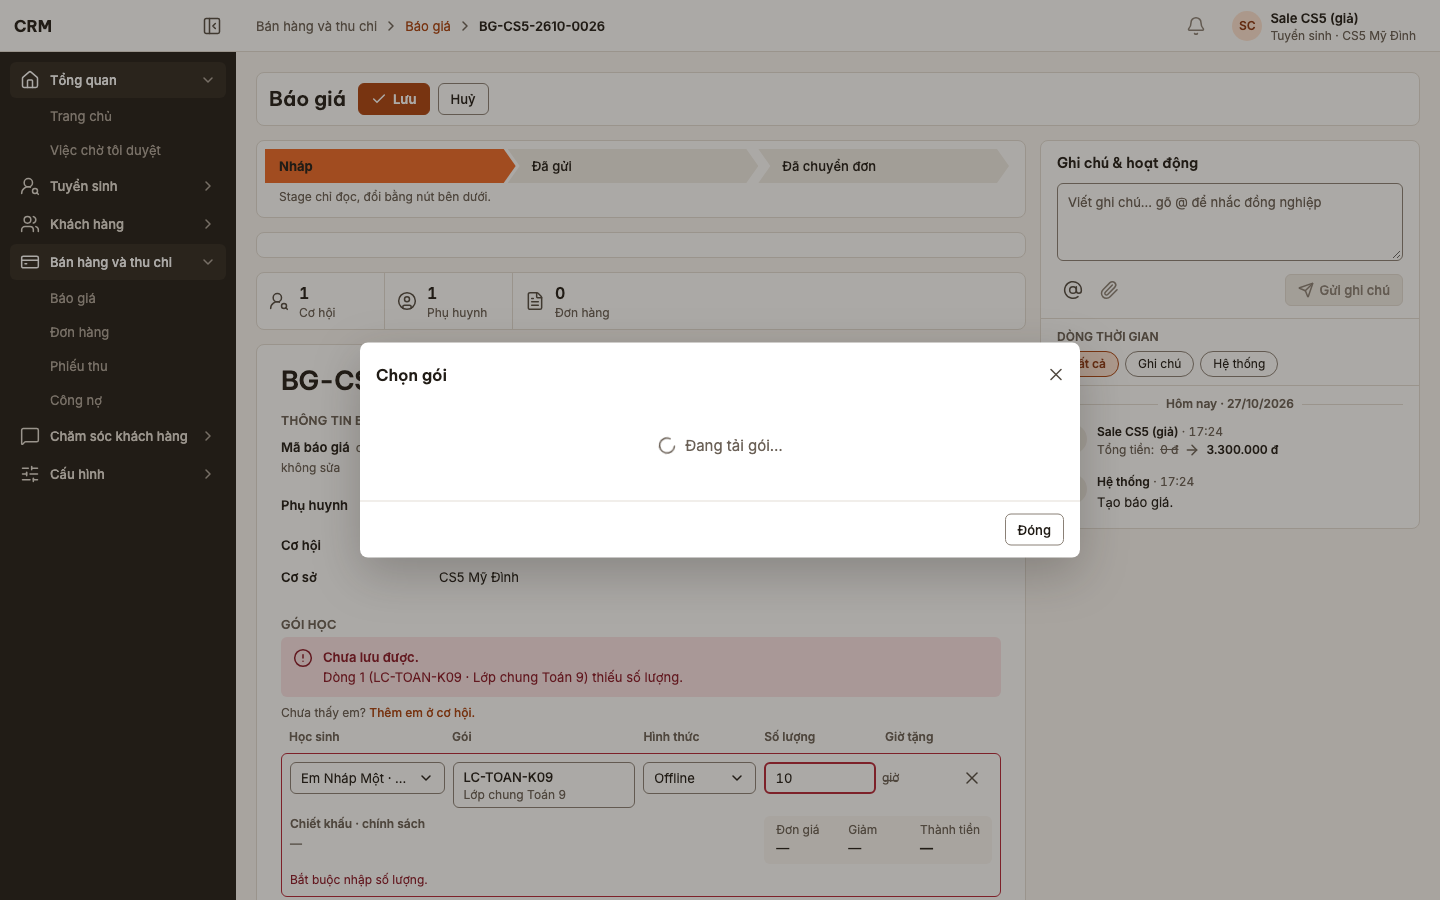
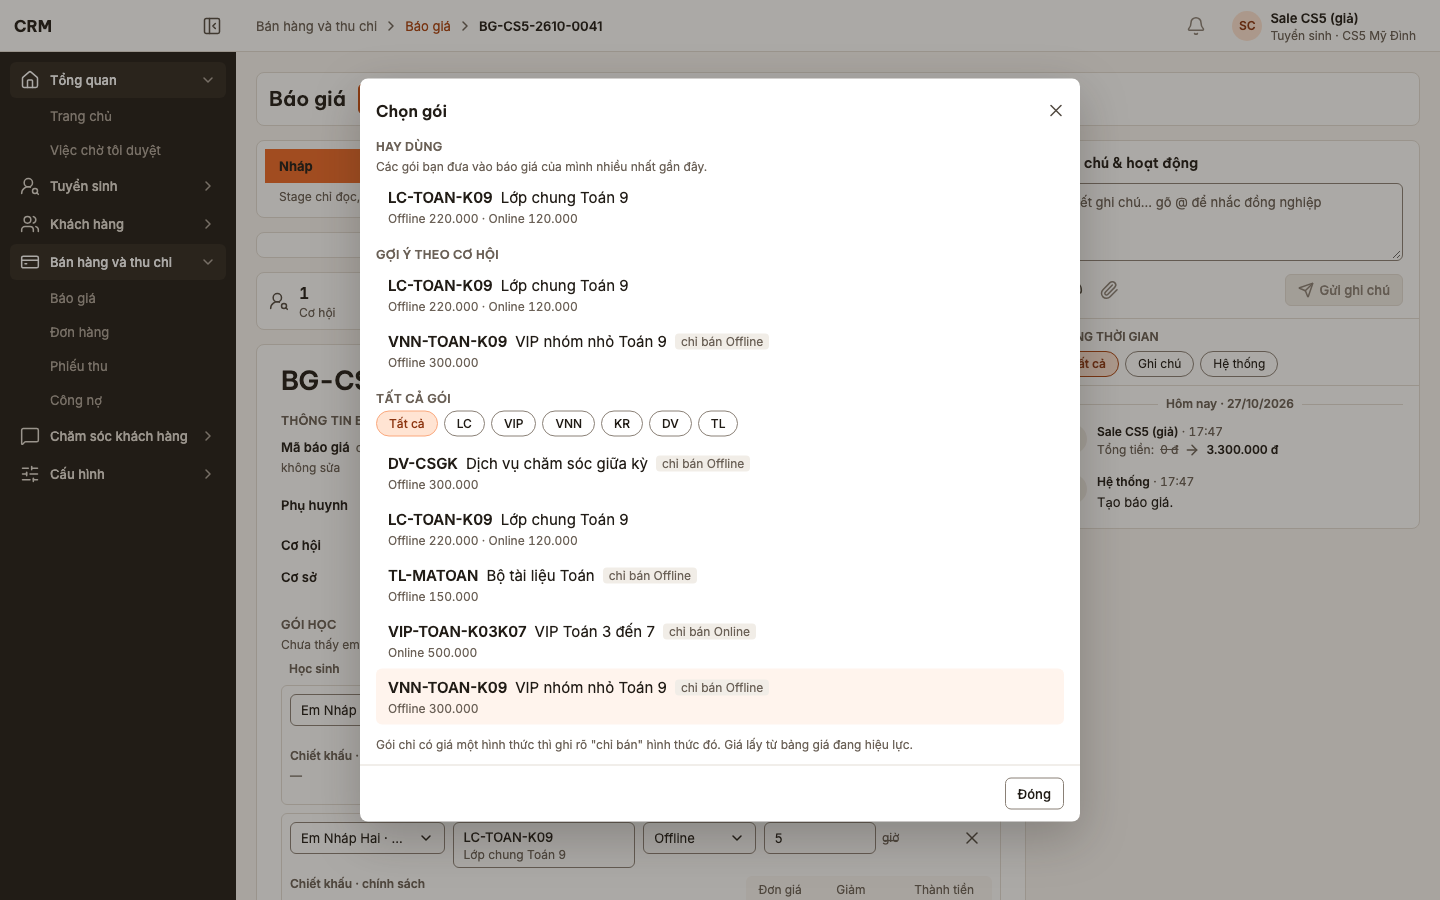
P5a-UI-6 (C1): lỗi số lượng tự mất khi nhập hợp lệ (bài kiểm), chụp lại hộp Chọn gói khi đã tải (Đ254)

diff --git a/src/pages/bao-gia/quoteEdit.test.ts b/src/pages/bao-gia/quoteEdit.test.ts
@@ -4,6 +4,7 @@ import {
   buildSaveLines,
   modesOfPrices,
   parseQuantity,
+  pruneIssues,
   rowsFromRecord,
   rowsSignature,
   validateRows,
@@ -138,5 +139,22 @@ describe('quoteEdit', () => {
   it('hình thức của gói: OFF trước ONL, chỉ hình thức có giá', () => {
     expect(modesOfPrices({ ONL: 120000, OFF: 220000 })).toEqual(['OFF', 'ONL']);
     expect(modesOfPrices({ ONL: 300000 })).toEqual(['ONL']);
+  });
+
+  it('lỗi thiếu số lượng tự mất khi nhập số hợp lệ, dòng khác giữ lỗi', () => {
+    const a = { ...blankRow(), packageId: 'p1', packageCode: 'A', packageName: 'Gói A' };
+    const b = { ...blankRow(), packageId: 'p2', packageCode: 'B', packageName: 'Gói B' };
+    const issues = validateRows([a, b]);
+    expect(issues).toHaveLength(2);
+    const fixed = pruneIssues(issues, [{ ...a, quantity: '5' }, b]);
+    expect(fixed.map((i) => i.rowKey)).toEqual([b.key]);
+    expect(
+      pruneIssues(fixed, [
+        { ...a, quantity: '5' },
+        { ...b, quantity: '1,5' },
+      ]),
+    ).toEqual([]);
+    // Xoá lại ô thì không tự báo lỗi mới trước khi bấm Lưu.
+    expect(pruneIssues([], [a, b])).toEqual([]);
   });
 });

diff --git a/e2e/bao-gia.spec.ts b/e2e/bao-gia.spec.ts
@@ -168,8 +168,10 @@ test('BH-02 sửa Nháp: lưới K06c, thiếu số lượng báo lỗi theo khu
   await expect(page.getByText('Chưa lưu được.')).toBeVisible();
   await expect(page.getByText(/^Dòng 1 \(LC-TOAN-K09 · .*\) thiếu số lượng\.$/)).toBeVisible();
   await expect(page.getByText('Bắt buộc nhập số lượng.')).toBeVisible();
-  // Nhập lại, đổi 10 giờ thành 20 giờ, Lưu.
+  // Nhập số hợp lệ thì lỗi tự mất (cả dòng báo và khối "Chưa lưu được"); đổi 10 giờ thành 20 giờ, Lưu.
   await page.getByLabel('Số lượng dòng 1').fill('20');
+  await expect(page.getByText('Bắt buộc nhập số lượng.')).toHaveCount(0);
+  await expect(page.getByText('Chưa lưu được.')).toHaveCount(0);
   await page.getByRole('button', { name: 'Lưu', exact: true }).click();
   await expect(page.getByText('Đã lưu báo giá.').first()).toBeVisible();
   const view = page.getByRole('table', { name: 'Gói học' });

diff --git a/src/pages/bao-gia/QuotationRecordPage.tsx b/src/pages/bao-gia/QuotationRecordPage.tsx
@@ -24,6 +24,7 @@ import { useLeadCatalogs } from '../lead/useCatalogs';
 import { QuoteLineGrid } from './QuoteLineGrid';
 import {
   buildSaveLines,
+  pruneIssues,
   rowsFromRecord,
   rowsSignature,
   validateRows,
@@ -525,7 +526,10 @@ function QuotationView({ record }: { record: QuotationRecord }) {
                 {students.isError && <Alert tone="danger">{errorOf(students.error).message}</Alert>}
                 <QuoteLineGrid
                   rows={rows}
-                  onChange={setRows}
+                  onChange={(next) => {
+                    setRows(next);
+                    setIssues((prev) => pruneIssues(prev, next));
+                  }}
                   students={students.data ?? []}
                   opportunityId={record.opportunity_id}
                   opportunityHref={`/crm/co-hoi/${record.opportunity_id}`}

diff --git a/src/pages/bao-gia/quoteEdit.ts b/src/pages/bao-gia/quoteEdit.ts
@@ -149,3 +149,9 @@ export function modesOfPrices(prices: Record<string, number>): string[] {
     a === 'OFF' ? -1 : b === 'OFF' ? 1 : a.localeCompare(b),
   );
 }
+
+/** Sau khi sửa dòng: bỏ lỗi của những dòng nay đã hợp lệ (lỗi tự mất khi nhập đúng), giữ lỗi của dòng còn sai. */
+export function pruneIssues(issues: RowIssue[], rows: EditRow[]): RowIssue[] {
+  const still = new Set(validateRows(rows).map((i) => i.rowKey));
+  return issues.filter((i) => still.has(i.rowKey));
+}
